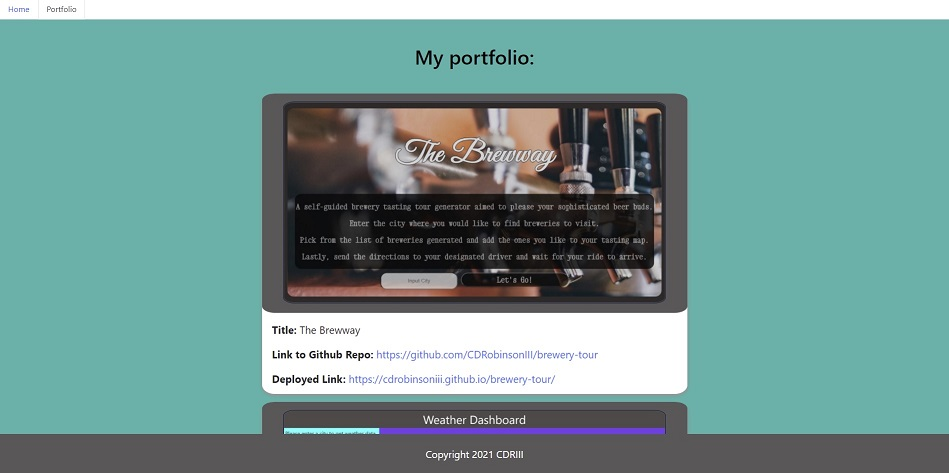
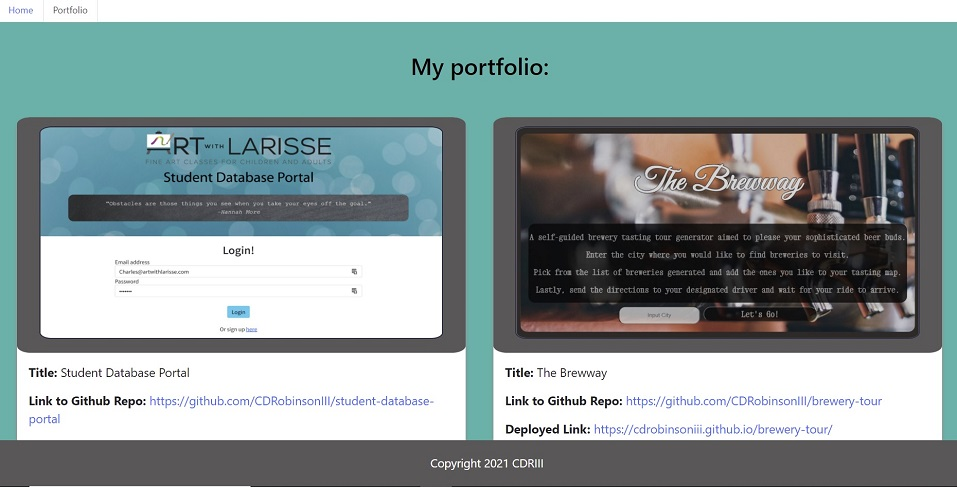
Changed size of portfolio screenshot and modified margin on portfolio card.

diff --git a/src/components/PortfolioCard/style.css b/src/components/PortfolioCard/style.css
@@ -9,7 +9,7 @@
   text-align: left;
   border-radius: 3%;
   float: left;
-  margin-left: 32px;
+  margin-left: 42px;
   padding: auto;
 }
 
